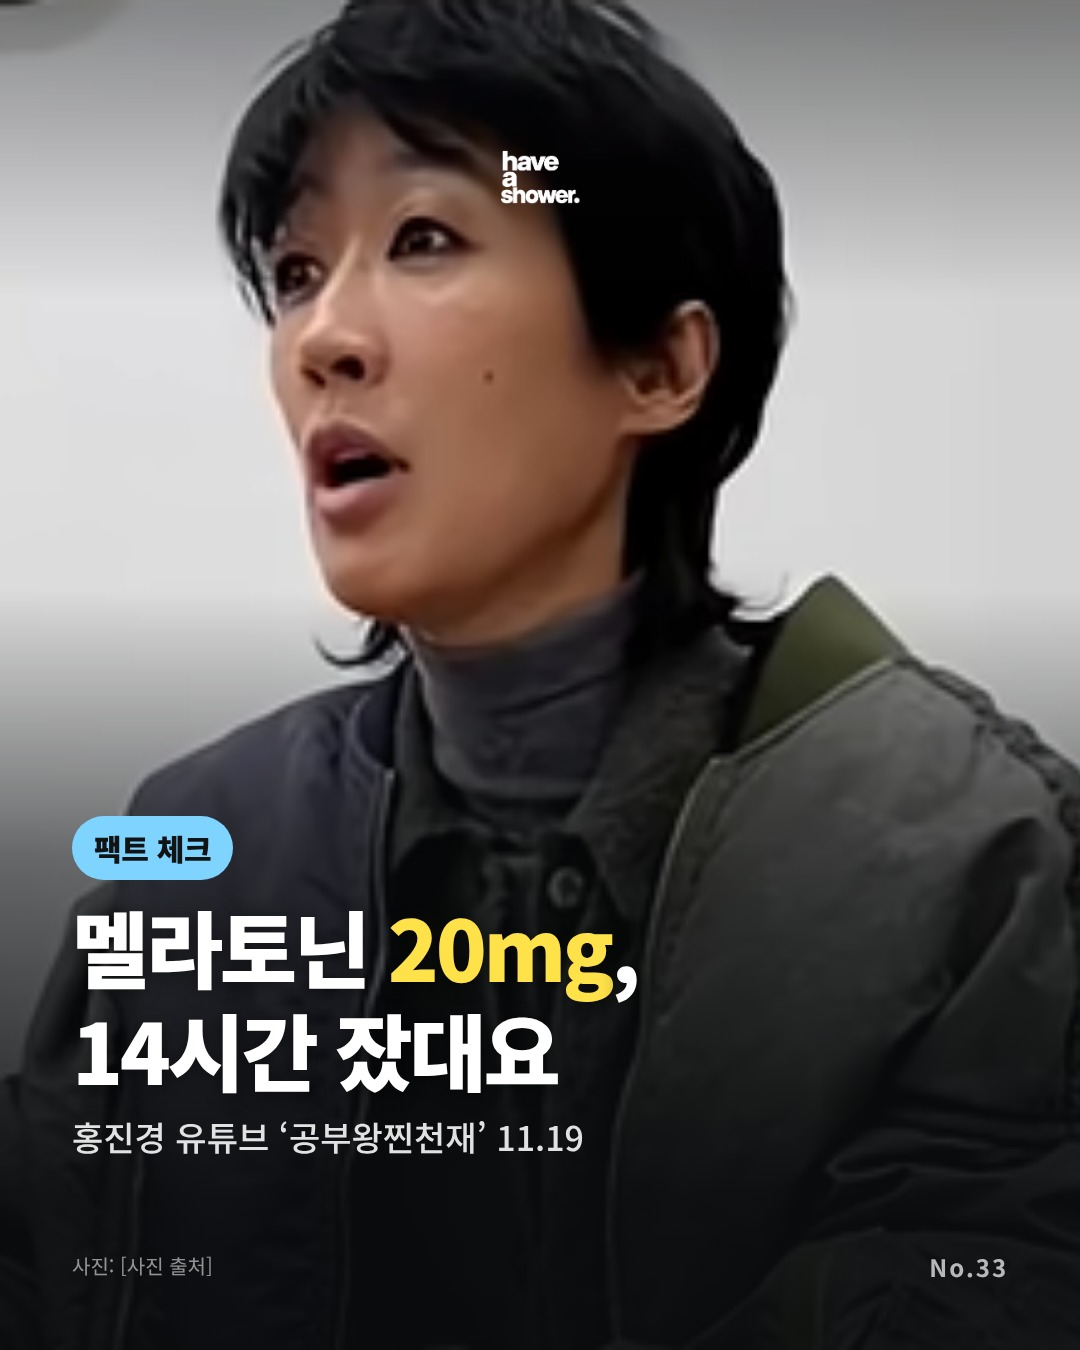
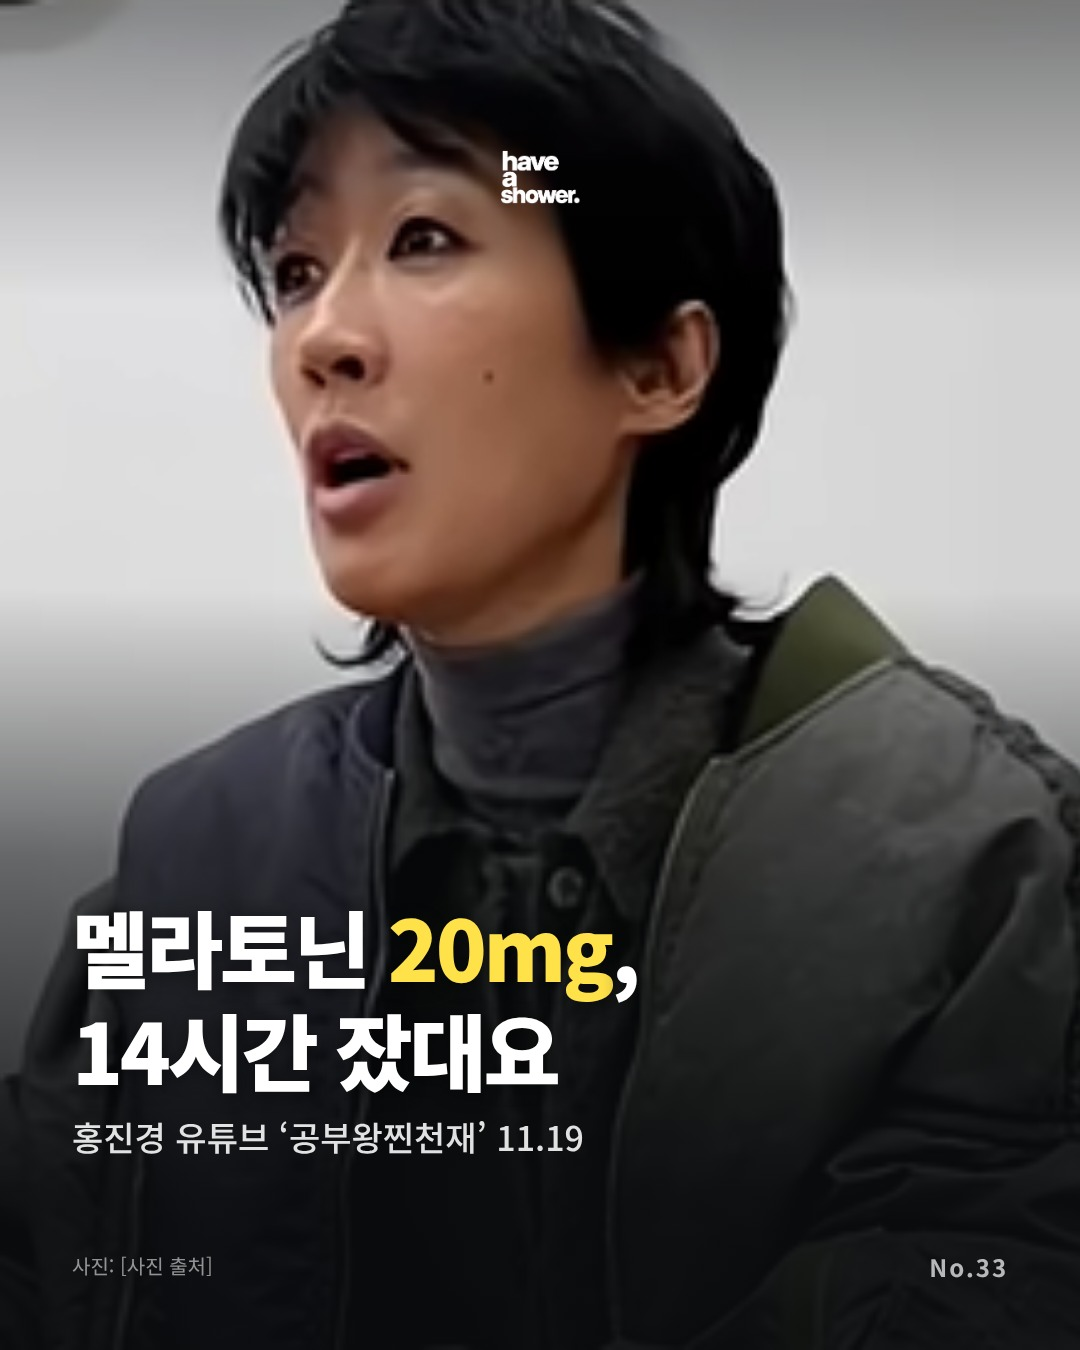
No.33·34 표지 코너 이름표 빼기
Claude-Session: https://claude.ai/code/session_01MYgG3idsmspJxhYYSZrsr7

Changed region(s): [[0.0611, 0.5911, 0.2139, 0.6533]]

diff --git a/cardnews/project/P34-1-Cover.dc.html b/cardnews/project/P34-1-Cover.dc.html
@@ -19,7 +19,6 @@ a{color:inherit}
 <div style="position: absolute; left: 0; right: 0; top: 0; height: 300px; background: linear-gradient(180deg, rgba(10,12,14,0.45) 0%, rgba(10,12,14,0) 100%)"></div>
 <div style="position: absolute; left: 0; right: 0; bottom: 0; height: 760px; background: linear-gradient(180deg, rgba(10,12,14,0) 0%, rgba(10,12,14,0.55) 35%, rgba(10,12,14,0.92) 80%)"></div>
 <img src="/_blob/11234708ce8dd667817c59a15d245c81" alt="have a shower 로고" style="position: absolute; left: 50%; top: 150px; transform: translateX(-50%); height: 54px; display: block">
-<div style="position: absolute; left: 72px; bottom: 470px; padding: 10px 22px; border-radius: 40px; background: #FFFFFF; color: #111315; font-size: 30px; font-weight: 800; letter-spacing: -0.01em">셀럽 루틴</div>
 <h1 style="position: absolute; left: 72px; right: 72px; bottom: 250px; margin: 0; font-family: 'Noto Sans KR', 'Apple SD Gothic Neo', sans-serif; font-size: 84px; font-weight: 900; line-height: 1.22; letter-spacing: -0.04em; color: #FFFFFF; text-shadow: 0 3px 18px rgba(0,0,0,0.45); white-space: pre-line">채령은 드라마 보며
 <span style="color: #FFE14A">두피</span>를 풀어요</h1>
 <div style="position: absolute; left: 72px; right: 72px; bottom: 190px; font-size: 34px; font-weight: 500; line-height: 1.35; color: rgba(255,255,255,0.88)">전참시 11.21 · TV 보며 하는 홈케어 4</div>

diff --git a/cardnews/project/P33-1-Cover.dc.html b/cardnews/project/P33-1-Cover.dc.html
@@ -19,7 +19,6 @@ a{color:inherit}
 <div style="position: absolute; left: 0; right: 0; top: 0; height: 300px; background: linear-gradient(180deg, rgba(10,12,14,0.45) 0%, rgba(10,12,14,0) 100%)"></div>
 <div style="position: absolute; left: 0; right: 0; bottom: 0; height: 760px; background: linear-gradient(180deg, rgba(10,12,14,0) 0%, rgba(10,12,14,0.55) 35%, rgba(10,12,14,0.92) 80%)"></div>
 <img src="/_blob/11234708ce8dd667817c59a15d245c81" alt="have a shower 로고" style="position: absolute; left: 50%; top: 150px; transform: translateX(-50%); height: 54px; display: block">
-<div style="position: absolute; left: 72px; bottom: 470px; padding: 10px 22px; border-radius: 40px; background: #7FD4FF; color: #111315; font-size: 30px; font-weight: 800; letter-spacing: -0.01em">팩트 체크</div>
 <h1 style="position: absolute; left: 72px; right: 72px; bottom: 250px; margin: 0; font-family: 'Noto Sans KR', 'Apple SD Gothic Neo', sans-serif; font-size: 84px; font-weight: 900; line-height: 1.22; letter-spacing: -0.04em; color: #FFFFFF; text-shadow: 0 3px 18px rgba(0,0,0,0.45); white-space: pre-line">멜라토닌 <span style="color: #FFE14A">20mg</span>,
 14시간 잤대요</h1>
 <div style="position: absolute; left: 72px; right: 72px; bottom: 190px; font-size: 34px; font-weight: 500; line-height: 1.35; color: rgba(255,255,255,0.88)">홍진경 유튜브 ‘공부왕찐천재’ 11.19</div>

diff --git a/cardnews/make_p33_p34.py b/cardnews/make_p33_p34.py
@@ -35,6 +35,12 @@ for k, f in PICK.items():
     IMG[k] = '/_blob/' + h
 pick = {a[:2]: a[2:] for a in sys.argv[1:]}
 TAG['팩트 체크'] = '#7FD4FF'
+import re as _re
+_cover3 = cover3
+
+
+def cover3(*a, **k):  # 11/23 대표: 코너 이름표(팩트 체크·셀럽 루틴) 빼기
+    return _re.sub(r'<div style="position: absolute; left: 72px; bottom: 470px;[^>]*>[^<]*</div>\n', '', _cover3(*a, **k))
 
 # ───────── No.33 홍진경 멜라토닌 (6장) ─────────
 S33 = '출처: 유튜브 ‘공부왕찐천재 홍진경’(2026.11.19) · iMBC 연예(11.20)'
